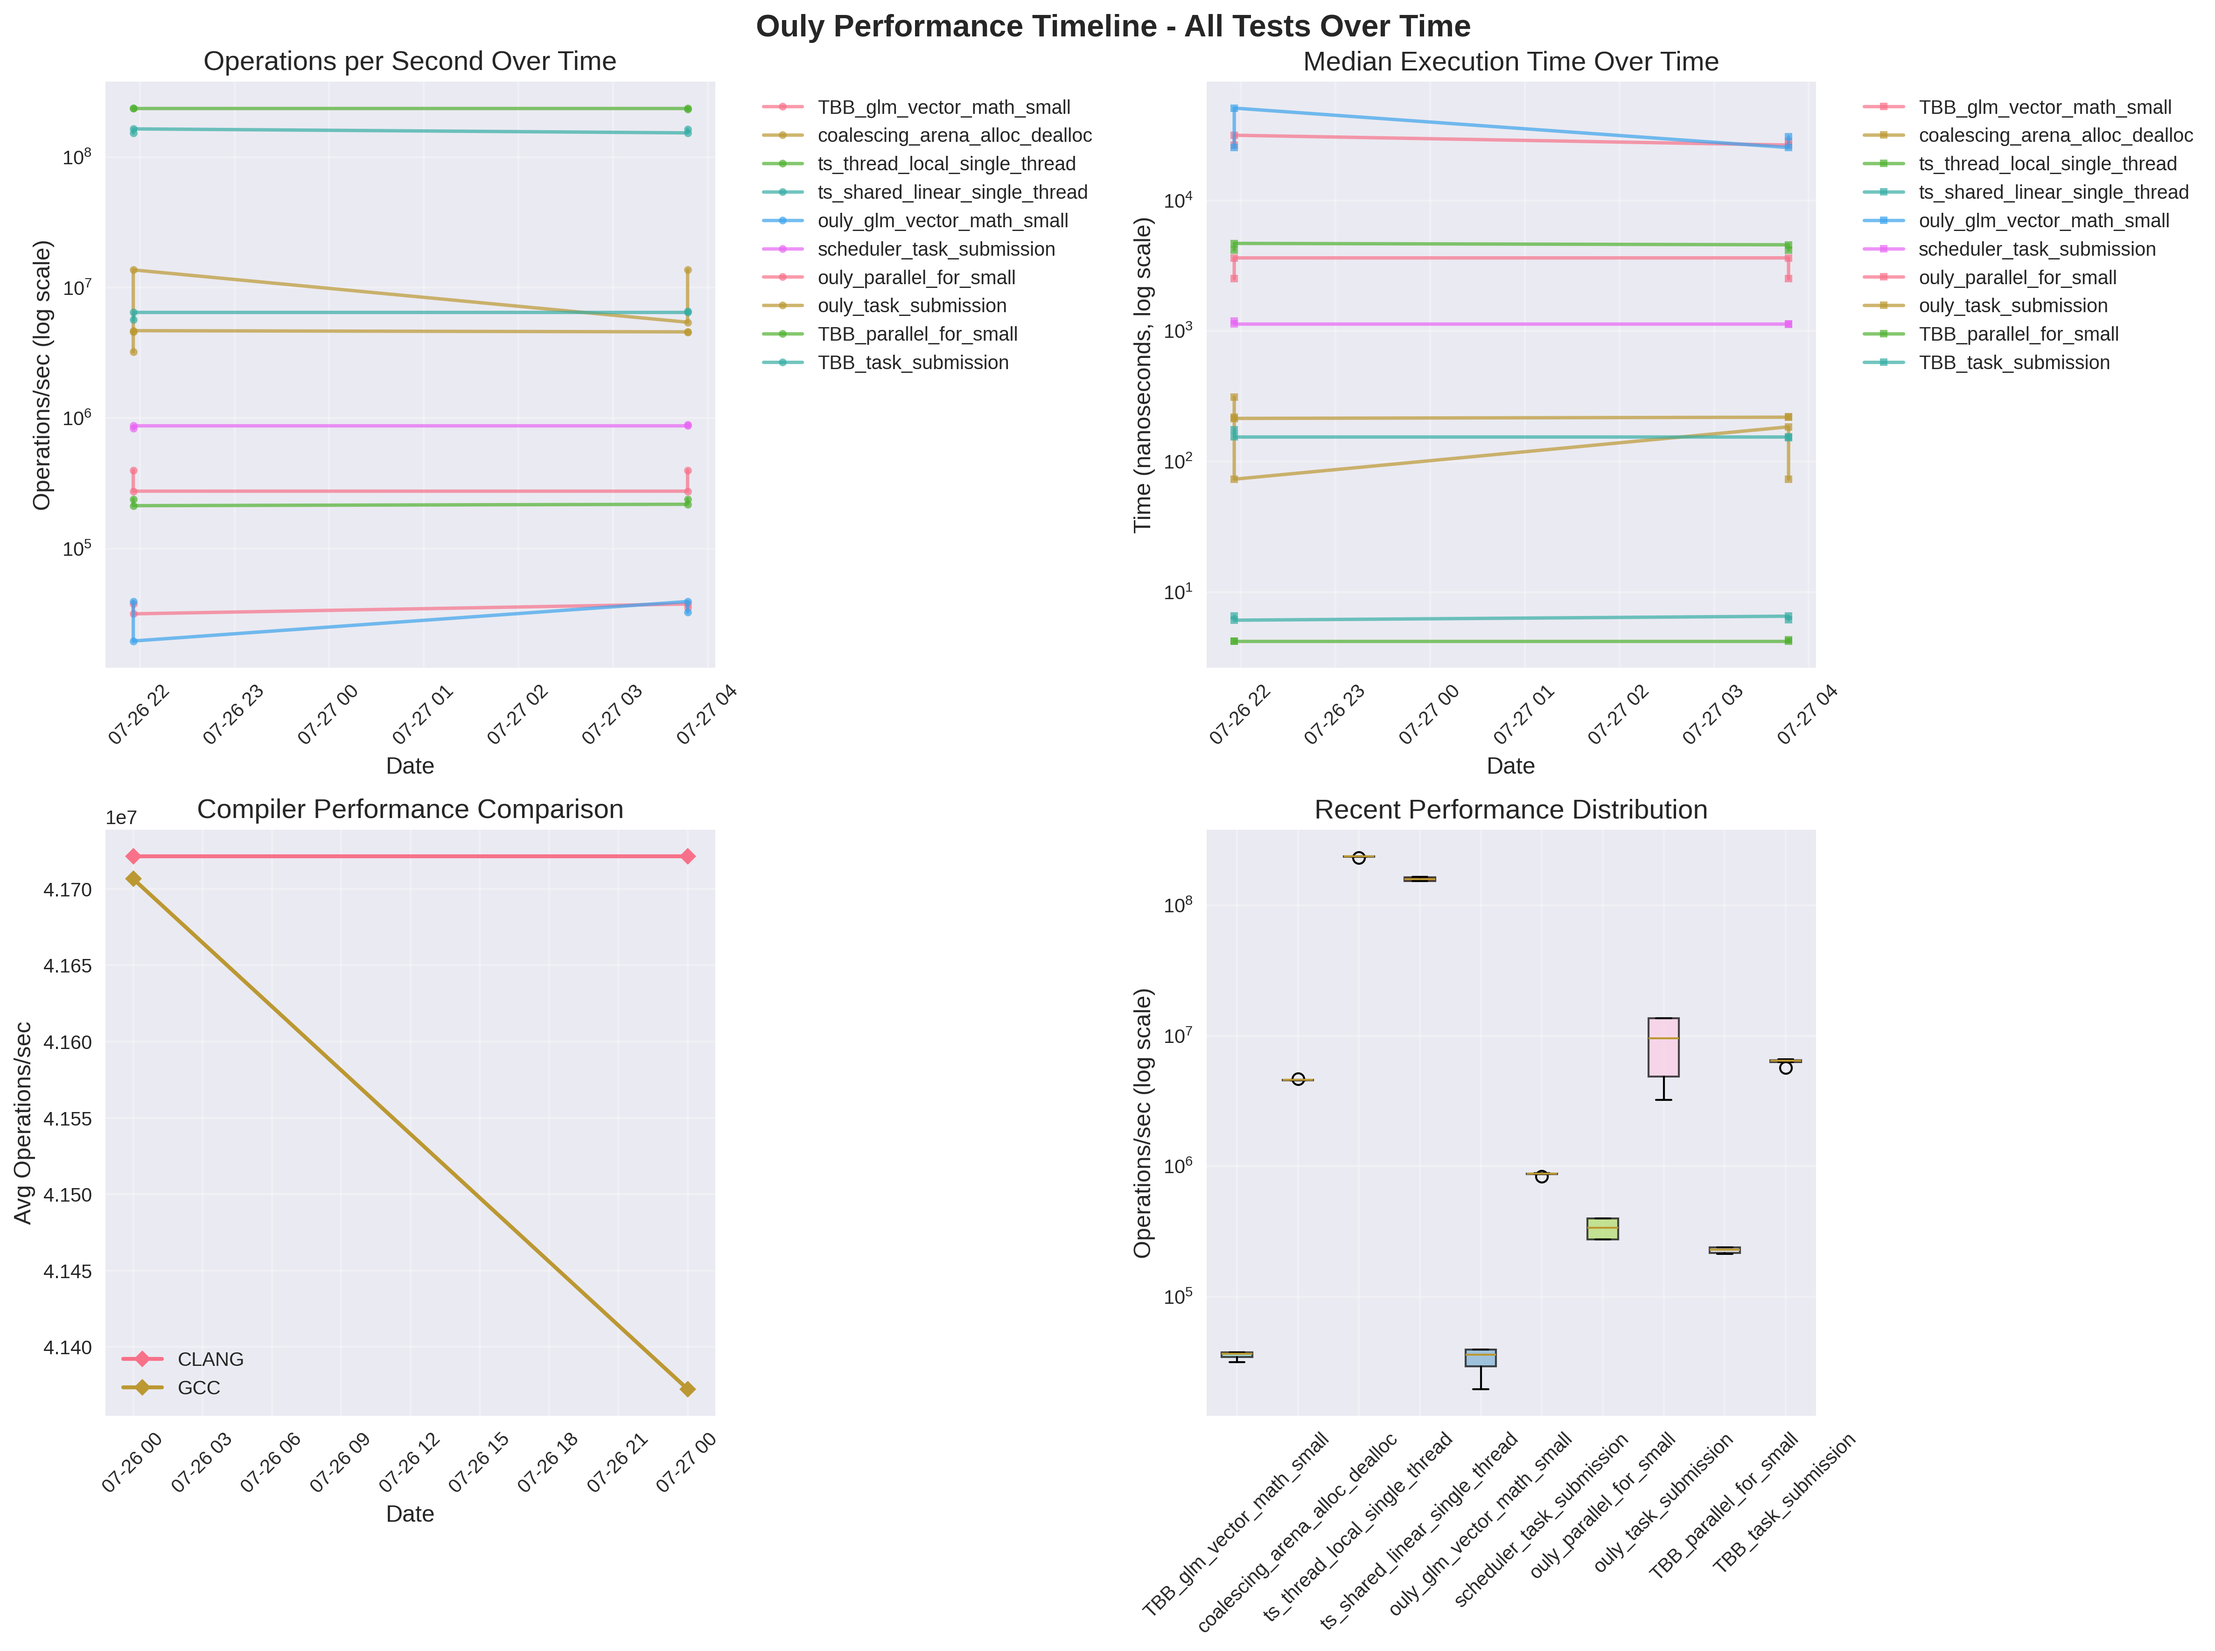
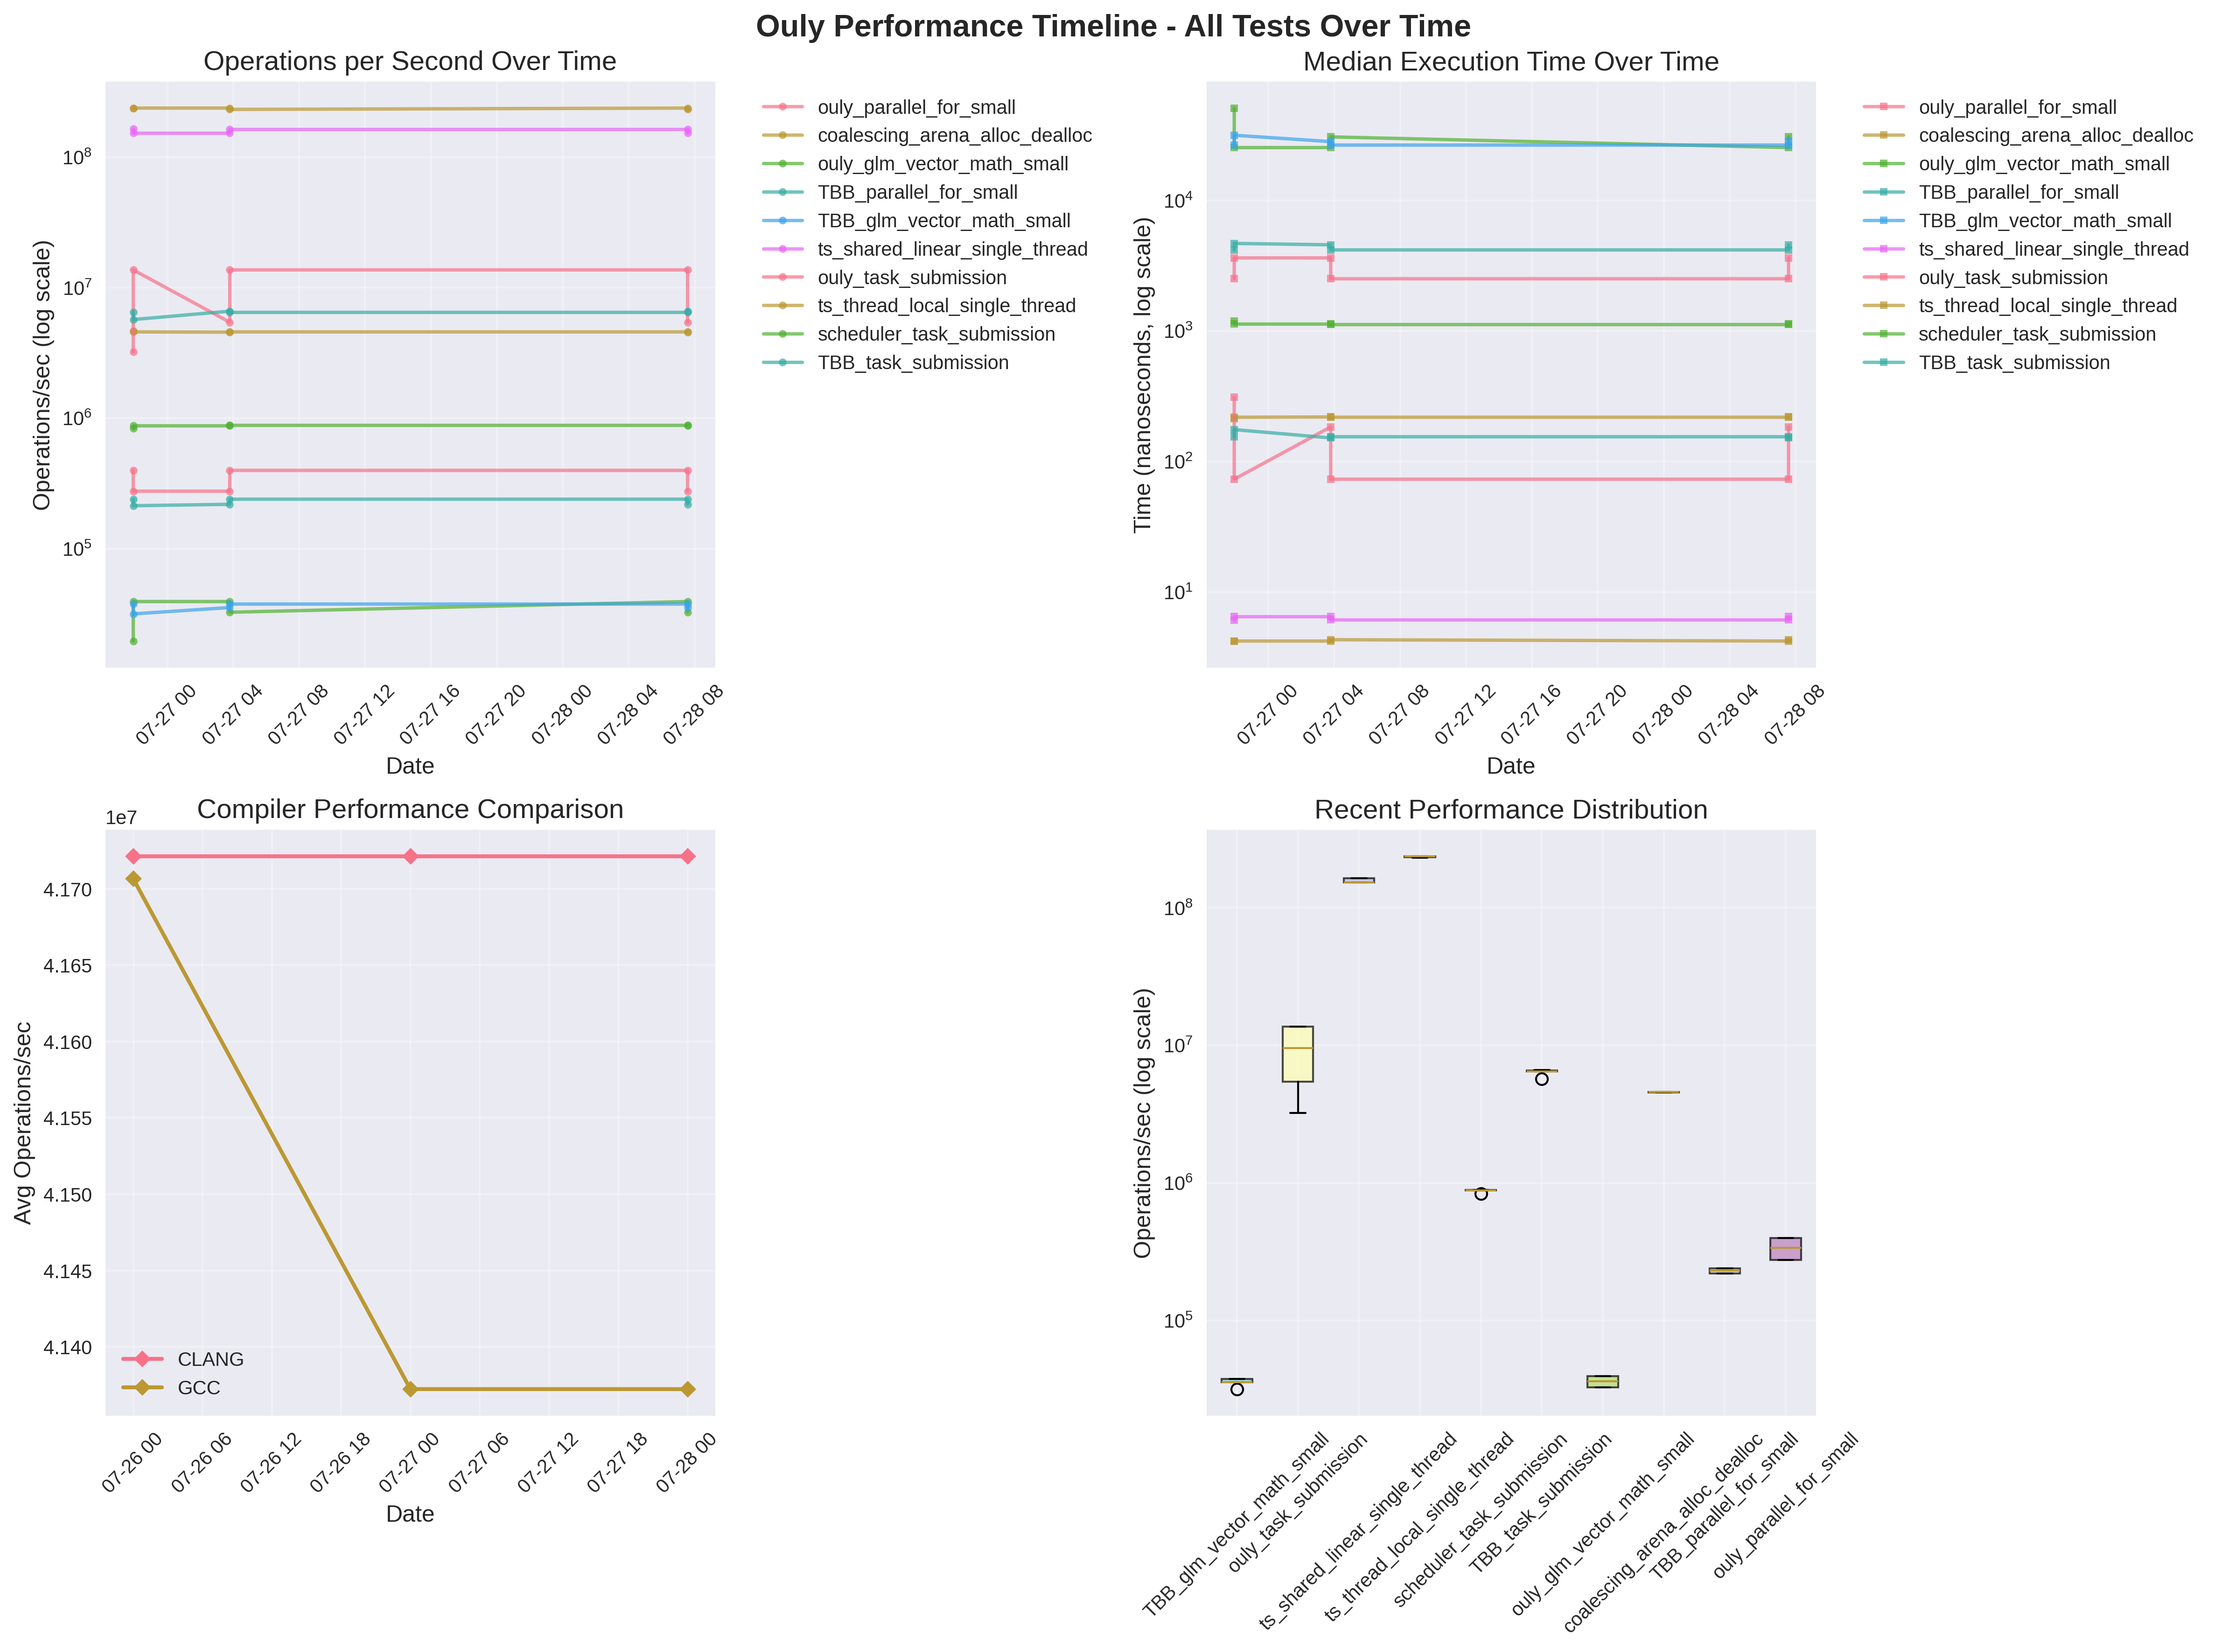
Update performance visualizations, PERFORMANCE.md and scripts for commit 4c9addcabf01df2caf42a8d2e7bba57584a861d5

diff --git a/performance-docs/performance_report.html b/performance-docs/performance_report.html
@@ -73,7 +73,7 @@
 <body>
     <div class="header">
         <h1>🚀 Ouly Performance Report</h1>
-        <p class="timestamp">Generated on 2025-07-27 03:49:10 UTC</p>
+        <p class="timestamp">Generated on 2025-07-28 07:52:11 UTC</p>
     </div>
 
     <div class="section">

diff --git a/visualizations/performance_report.html b/visualizations/performance_report.html
@@ -73,7 +73,7 @@
 <body>
     <div class="header">
         <h1>🚀 Ouly Performance Report</h1>
-        <p class="timestamp">Generated on 2025-07-27 03:49:02 UTC</p>
+        <p class="timestamp">Generated on 2025-07-28 07:52:03 UTC</p>
     </div>
 
     <div class="section">

diff --git a/performance-docs/PERFORMANCE.md b/performance-docs/PERFORMANCE.md
@@ -4,9 +4,9 @@ This document provides a comprehensive overview of Ouly's performance benchmarks
 
 ## 📊 Current Status
 
-- **Total Benchmark Runs**: 40
+- **Total Benchmark Runs**: 60
 - **Benchmark Types**: 10
-- **Last Updated**: 2025-07-27 03:47:11 UTC
+- **Last Updated**: 2025-07-28 07:34:31 UTC
 - **Tracking Branch**: `performance-tracking`
 
 ## 📈 Performance Timeline
@@ -118,4 +118,4 @@ Performance benchmarks guide:
 
 *This report is automatically updated with each commit to the main branch. For detailed benchmark data and interactive visualizations, visit the [performance-tracking branch](../../tree/performance-tracking).*
 
-*Generated on 2025-07-27 03:49:10 UTC by the Ouly Performance Visualization System.*
+*Generated on 2025-07-28 07:52:11 UTC by the Ouly Performance Visualization System.*

diff --git a/visualizations/PERFORMANCE.md b/visualizations/PERFORMANCE.md
@@ -4,9 +4,9 @@ This document provides a comprehensive overview of Ouly's performance benchmarks
 
 ## 📊 Current Status
 
-- **Total Benchmark Runs**: 40
+- **Total Benchmark Runs**: 60
 - **Benchmark Types**: 10
-- **Last Updated**: 2025-07-27 03:47:11 UTC
+- **Last Updated**: 2025-07-28 07:34:31 UTC
 - **Tracking Branch**: `performance-tracking`
 
 ## 📈 Performance Timeline
@@ -118,4 +118,4 @@ Performance benchmarks guide:
 
 *This report is automatically updated with each commit to the main branch. For detailed benchmark data and interactive visualizations, visit the [performance-tracking branch](../../tree/performance-tracking).*
 
-*Generated on 2025-07-27 03:49:02 UTC by the Ouly Performance Visualization System.*
+*Generated on 2025-07-28 07:52:03 UTC by the Ouly Performance Visualization System.*
